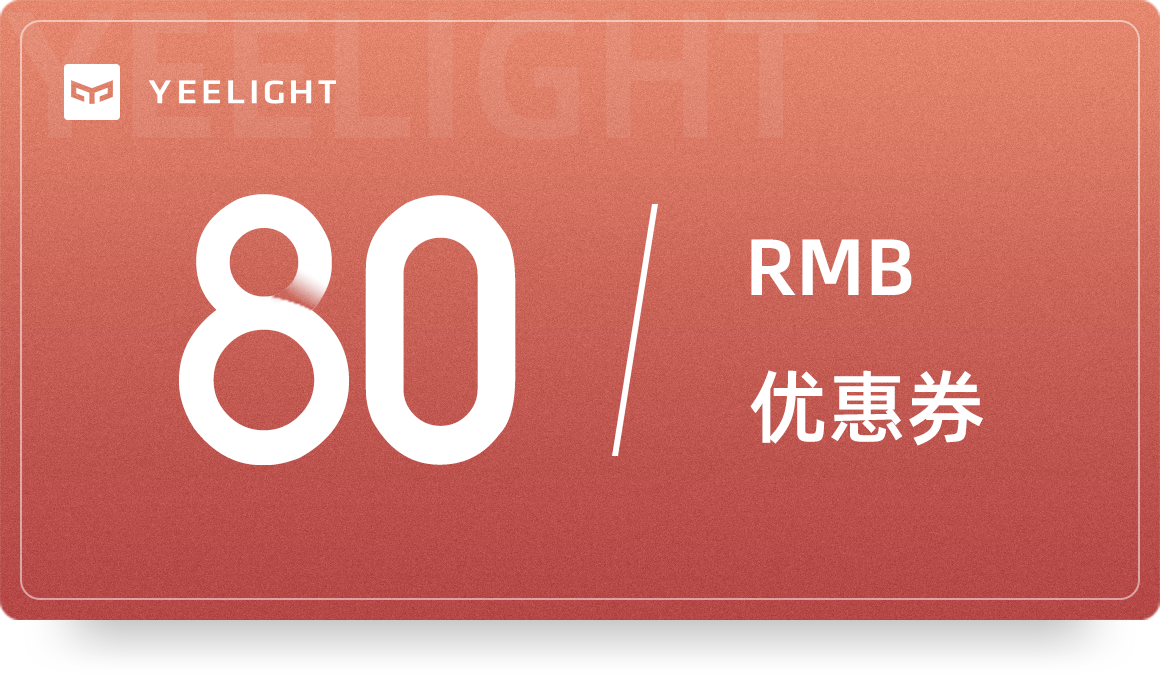
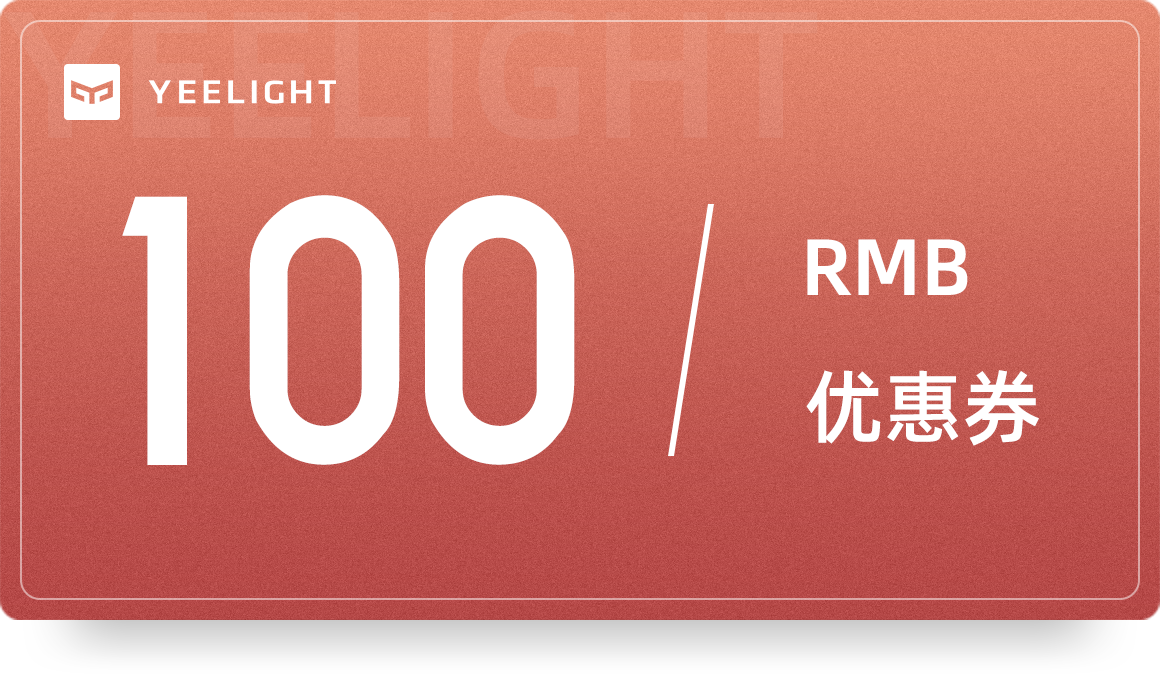
givemefive活动开发

diff --git a/src/pages/givemefive/views/index.vue b/src/pages/givemefive/views/index.vue
@@ -11,20 +11,21 @@
                 </div>
             </header>
             <main class="main-coupon">
-                <section class="coupon-quota textcenter" v-if="state&&state!=5">
+                <section v-if="state&&state!=5" class="coupon-quota textcenter">
                     <img class="img-coupon" src="../lib/coupon.png" alt="">
                 </section>
-                <section v-else-if="state==5">
-                    <div>
+                <section v-else-if="state==5" class="coupon-quota textcenter">
+                    <div class="coupon-box">
+                        <div class="coupon-value">{{self.coupon}}</div>
                         <img class="img-coupon" src="../lib/coupon_slices.png" alt="">
                     </div>
                 </section>
                 <section class="coupon-title textcenter">
-                    <div v-if="role==2">
+                    <div v-if="state==1" class="coupon-title-main">人气618，省钱攻略来袭</div>
+                    <div v-else-if="join===false">
                         <div class="coupon-title-main">您的小伙伴邀您走向省钱巅峰</div>
                         <div class="coupon-title-endtime">2019-06-20 24:00:00结束</div>
                     </div>
-                    <div v-else-if="state==1" class="coupon-title-main">人气618，省钱攻略来袭</div>
                     <div v-else-if="state==2||state==3">
                         <div class="coupon-title-main">瓜分神券进行中</div>
                         <div class="coupon-title-endtime">{{config.validDate}} 24:00:00结束</div>
@@ -101,7 +102,7 @@
                     </div>
                     <div class="summary-content">
                         <ul class="coupondis-list">
-                            <li v-for="item in usercouponList" class="item-coupondis" :key="'usercouponitem'+item.id" flex="cross:center">
+                            <li v-for="item in teamList" class="item-coupondis" :key="'usercouponitem'+item.id" flex="cross:center">
                                  <div class="user-item">
                                     <div class="user-headimg real" flex="main:center cross:center">
                                         <img src="../lib/coupon.png" height="100%" alt="">
@@ -109,10 +110,10 @@
                                     <div v-if="item.role==1" class="user-name textcenter">团长</div>
                                 </div>
                                 <div class="jointeaminfo" flex-box="1">
-                                    <div class="weixin-name">{{item.name}}</div>
-                                    <div class="userjointime">{{item.time}}</div>
+                                    <div class="weixin-name">{{item.nickName}}</div>
+                                    <div class="userjointime">{{item.joinTime}}</div>
                                 </div>
-                                <div class="coupon-value">{{item.coupon}}元</div>
+                                <div class="item-coupon-value">{{item.coupon}}元</div>
                             </li>
                         </ul>
                     </div>
@@ -122,12 +123,22 @@
                 <img class="img-bg-bottom" src="../lib/bg-bottom.png" alt="">
             </footer>
         </article>
-        <aside class="aside" v-if="state&&state!=5">
-            <button class="btn-aside btn-openteam" @click="handleBth(state)">
+        <aside class="aside" v-if="state==1 || (join===false&&state&&state<4) ">
+            <button class="btn-aside btn-openteam" @click="handleBth">
                 <img src="../lib/logo.png" alt="" width="19px"> 
-                <span v-if="state==1" class="btn-aside-text">立即参团</span>
-                <span v-else-if="state==2 || state==3" class="btn-aside-text">呼唤小伙伴</span>
-                <span v-else-if="state==4" class="btn-aside-text">Give me five</span>
+                <span class="btn-aside-text">立即参团</span>
+            </button>
+        </aside>
+        <aside class="aside" v-else-if="state==2 || state==3">
+            <button class="btn-aside btn-openteam" @click="handleBth">
+                <img src="../lib/logo.png" alt="" width="19px"> 
+                <span class="btn-aside-text">呼唤小伙伴</span>
+            </button>
+        </aside>
+        <aside class="aside" v-if="state==4 && join">
+            <button class="btn-aside btn-openteam" @click="handleBth">
+                <img src="../lib/logo.png" alt="" width="19px"> 
+                <span class="btn-aside-text">Give me five</span>
             </button>
         </aside>
     </div>
@@ -146,9 +157,11 @@
                 },
                 state: 0, // 1.初始状态；2.团长开团；3.有小伙伴加入（不满5人）；4.已满团（满5人）;5.已开券
                 role: 1, // 角色，1.团长；2.团员
-                join: null, // 是否已加入
+                join: false, // 是否已加入
+                bind: false, //是否已绑定小米账号
                 source: '', // 来源
                 teamId: '', // 团ID
+                self: {}, //个人信息
                 teamList: [],
                 step: '2', // 当前进行的步骤
                 stepList: [{
@@ -173,20 +186,7 @@
                     name: '拆券并领取',
                     portion: 2,
                     key: 4
-                }],
-                usercouponList: [{
-                    id: 1,
-                    name: 'LUU',
-                    time: '5.20 10:20:30',
-                    coupon: 28.88,
-                    role: 1,
-                }, {
-                    id: 2,
-                    name: 'LUU',
-                    time: '5.20 10:20:30',
-                    coupon: 28.88,
-                    role: 2,
-                }],
+                }]
             }
         },
         mounted(){
@@ -211,71 +211,105 @@
                
             },
             vmGetteam() {
-                getteam(this.source).then(res => {
+                getteam(this.teamId).then(res => {
                     if(!validatenull(res.data)){
                         let data = res.data;
-                        this.join = data.join;
-                        if(!this.join) {
-                            this.state = 1;
-                            return
-                        }
-                        this.role = data.role;
-                        // this.teamId = data.teamId;
-                        this.teamList = data.team;
-                        if(validatenull(this.teamList)){
-                            this.state = 1
-                        } else{
-                            this.teamId = this.teamList[0].teamId;
-                            if(this.teamList.length==1){
-                                this.state = 2;
-                            } else if(this.teamList.length<5){
-                                this.state = 3
-                            } else {
-                                this.state = 4;
+                        this.bind = data.bind;
+                        if(this.bind){
+                            this.join = data.join;
+                            if(this.join) {
+                                this.self = data.self;
+                                this.role = this.self.role;
                             }
-                            this.initMessage();
                         }
+                        if(validatenull(data.team)){
+                            this.state = 1;
+                            return;
+                        }
+                        this.teamList = data.team;
+                        this.teamId = this.teamList[0].teamId;
+                        if(this.teamList.length == 1) {
+                            this.state = 2;
+                        } else if(this.teamList.length < 5) {
+                            this.state = 3
+                        } else if(this.self.openTime) {
+                            this.state = 5;
+                            return;
+                        } else {
+                            this.state = 4;
+                        }
+                        this.initMessage();
                     }
                 });
             },
-            initTeamInfo(data) {
-                this.role = data.role;
-                this.join = data.join;
-            },
+            // initTeamInfo(data) {
+            //     this.role = data.role;
+            //     this.join = data.join;
+            // },
             initMessage() {
                 try{
+                    // eslint-disable-next-line no-undef
                     wx.miniProgram.postMessage({
-                        teamId: this.teamId
+                        data: {
+                            teamId: this.teamId
+                        }
                     });
                 }catch(e){
+                    // eslint-disable-next-line no-console
                     console.log(e);
                 }
             },
-            handleBth(state){
-                if(state == 1 || this.role == 2) {
+            handleBth(){
+                if(!this.bind) {
+                    try{
+                        // eslint-disable-next-line no-undef
+                        wx.miniProgram.postMessage({
+                            data: {
+                                teamId: this.teamId,
+                                source: this.source
+                            }
+                        });
+                        // eslint-disable-next-line no-undef
+                        wx.miniProgram.redirectTo({
+                            url: 'pages/oauth/oauth'
+                        });
+                    } catch(e) {
+                        // eslint-disable-next-line no-console
+                        console.log(e);
+                    }
+                    return;
+                }
+                
+                if(this.state == 1) {
                     this.vmJointeam();
-                } else if(state == 4){
+                } else if(this.state == 4){
+                    if(this.join == false){
+                        alert('您不在当前团中，无法领取优惠券');
+                        return;
+                    }
                     this.vmOpencoupon();
                 } else {
                     alert('点击右上角转发');
                 }
             },
             vmJointeam(){
-                jointeam(this.source, this.teamId).then(res => {
-                    let data = res.data;
-                    this.role = data.role;
-                    if(!this.teamId){
-                        this.teamId = data.teamId;
-                        this.initMessage();
-                    }
-                    this.teamList.push(data);
+                jointeam(this.source, this.teamId).then(() => {
+                    this.vmGetteam();
+                    // let data = res.data;
+                    // this.role = data.role;
+                    // if(!this.teamId){
+                    //     this.teamId = data.teamId;
+                    //     this.initMessage();
+                    // }
+                    // this.teamList.push(data);
                 })
             },
             vmOpencoupon(){
-                opencoupon().then(res => {
-                    if(res.success) {
-                        this.state = 5;
-                    }
+                opencoupon().then(() => {
+                    this.vmGetteam();
+                    // if(res.success) {
+                    //     this.state = 5;
+                    // }
                 })
             },
 
@@ -338,6 +372,19 @@
     }
     .img-coupon{
         width: 100%;
+    }
+    .coupon-box{
+        position: relative;
+    }
+    .coupon-value{
+        position: absolute;
+        top: 2rem;
+        left: 1.75rem;
+        font-size: 3.75rem;
+        font-weight:bold;
+        color:rgba(255,255,255,1);
+        font-family:MIUIEX-Bold;
+        line-height: 1;
     }
     .coupon-title{
         margin-top: .9rem;
@@ -502,7 +549,7 @@
         color: rgba(102,102,102,1);
         line-height: 1;
     }
-    .coupon-value{
+    .item-coupon-value{
         font-size: .75rem;
         font-family: PingFangSC-Medium;
         font-weight: 500;

diff --git a/src/pages/givemefive/givemefive.html b/src/pages/givemefive/givemefive.html
@@ -5,7 +5,8 @@
     <meta http-equiv="X-UA-Compatible" content="IE=edge">
     <meta name="viewport" content="width=device-width,initial-scale=1.0">
     <link rel="icon" href="<%= BASE_URL %>favicon.ico">
-    <title>yeelight-toc-page</title>
+    <title>GIVE ME FIVE</title>
+    <script src="https://res.wx.qq.com/open/js/jweixin-1.3.2.js"></script>
     <script>
         (function (doc, win) {
             let docEl = doc.documentElement;

diff --git a/src/service/givemefive.js b/src/service/givemefive.js
@@ -1,9 +1,12 @@
 import request from './index';
 
-export const getteam = () => {
+export const getteam = (teamId) => {
     return request({
         url: '/v1/user-coupons/youpin/r/get/team',
-        method: 'get'
+        method: 'get',
+        params: {
+            teamId
+        }
     })
 }
 

diff --git a/public/index.html b/public/index.html
@@ -6,7 +6,6 @@
     <meta name="viewport" content="width=device-width,initial-scale=1.0">
     <link rel="icon" href="<%= BASE_URL %>favicon.ico">
     <title>yeelight-toc-page</title>
-    <script src="/cdn/jweixin-1.3.2.js"></script>
   </head>
   <body>
     <noscript>
